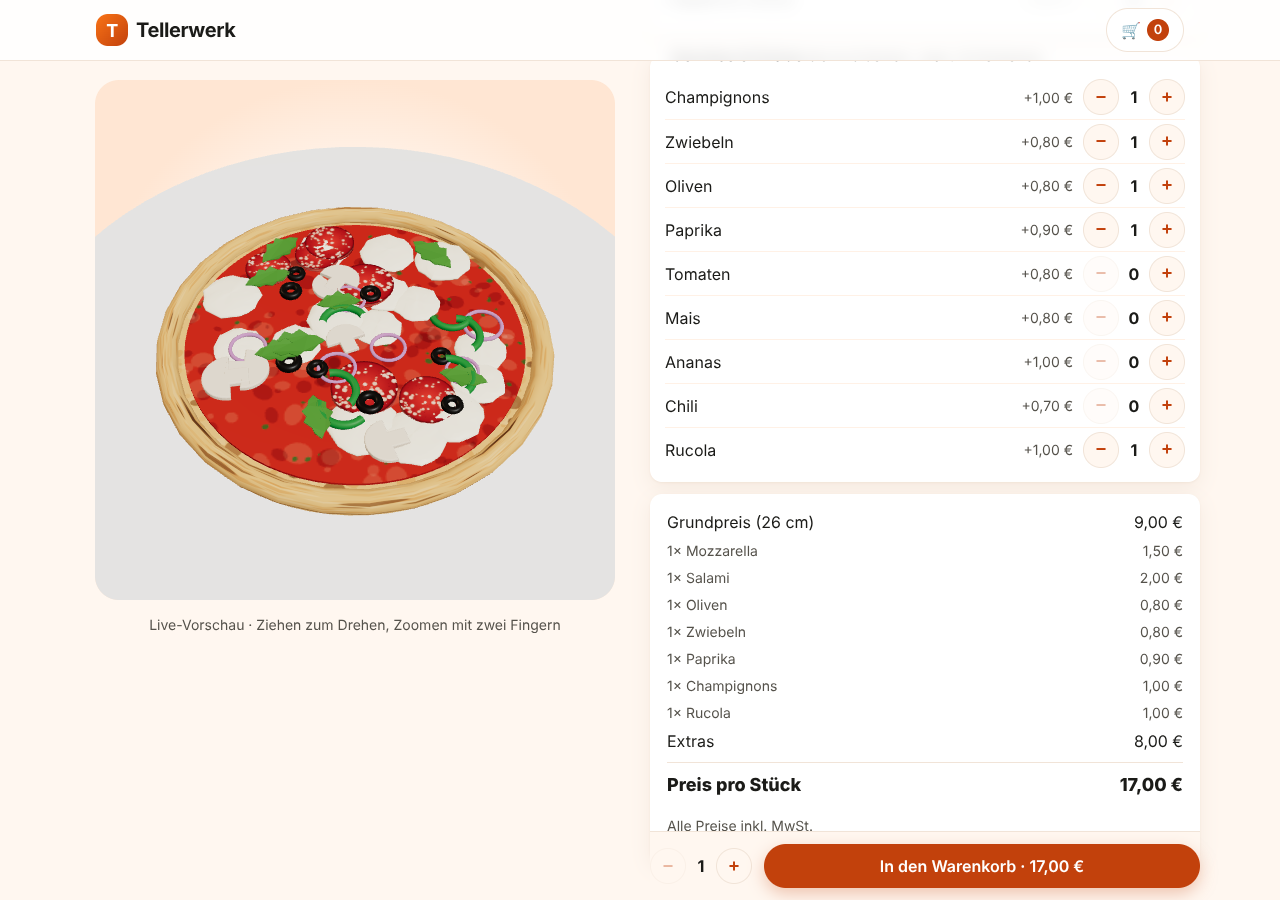
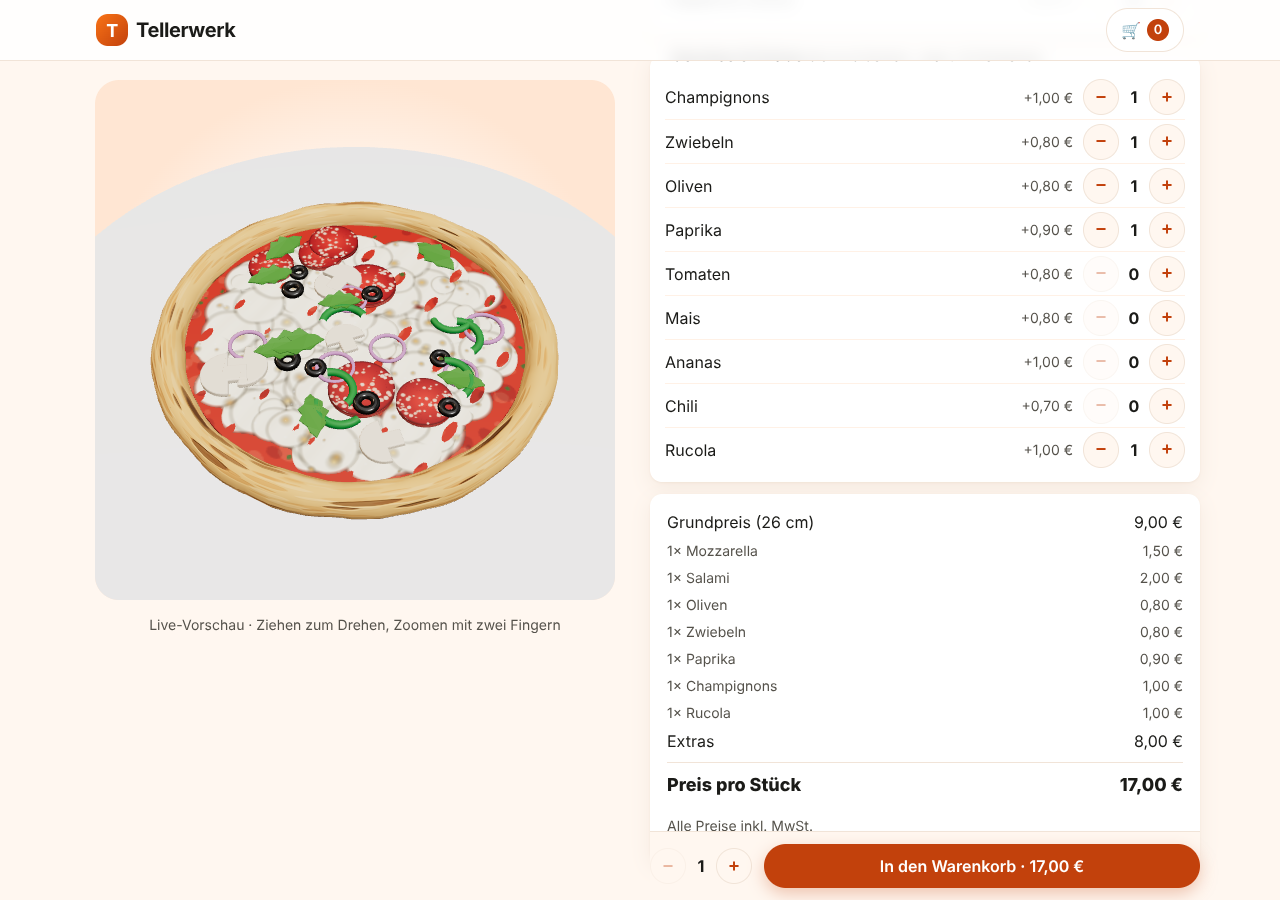
3D: studio lighting from local light panels, melted cheese layer, glossy materials, puffy crust
Claude-Session: https://claude.ai/code/session_01SjLAyZUfiSMKCvP1Eo84pU

Changed region(s): [[0.0938, 0.2178, 0.4375, 0.5911]]

diff --git a/marketplace/apps/web/src/components/dish3d/Pizza3D.tsx b/marketplace/apps/web/src/components/dish3d/Pizza3D.tsx
@@ -1,6 +1,6 @@
 "use client";
 
-import { Drop, G, textures, useRandomPoints } from "./parts";
+import { Drop, G, geo, textures, THREE, useRandomPoints } from "./parts";
 import type { DishLayer } from "./Dish3D";
 
 const SAUCE: Record<string, string> = { tomatensosse: "#b8321b", "bbq-sosse": "#5e2410", "creme-fraiche": "#f2ead8" };
@@ -27,19 +27,19 @@ function Piece({ k }: { k: string }) {
     case "mozzarella": return <mesh geometry={G.blob()} castShadow><meshStandardMaterial color="#fbf3dc" roughness={0.45} /></mesh>;
     case "cheddar": return <mesh geometry={G.blob()} castShadow><meshStandardMaterial color="#f0a330" roughness={0.45} /></mesh>;
     case "parmesan": return <mesh geometry={G.box(0.05, 0.008, 0.03)}><meshStandardMaterial color="#f4e9c1" roughness={0.8} /></mesh>;
-    case "salami": return <mesh geometry={G.disc(0.115, 0.018, 32)} castShadow><meshStandardMaterial map={textures.salami()} roughness={0.55} /></mesh>;
-    case "pepperoni-wurst": return <mesh geometry={G.disc(0.075, 0.016, 28)} castShadow><meshStandardMaterial map={textures.salami()} roughness={0.5} /></mesh>;
+    case "salami": return <mesh geometry={G.disc(0.115, 0.018, 32)} castShadow><meshPhysicalMaterial map={textures.salami()} roughness={0.45} clearcoat={0.5} clearcoatRoughness={0.3} /></mesh>;
+    case "pepperoni-wurst": return <mesh geometry={G.disc(0.075, 0.016, 28)} castShadow><meshPhysicalMaterial map={textures.salami()} roughness={0.45} clearcoat={0.5} clearcoatRoughness={0.3} /></mesh>;
     case "schinken": return <mesh geometry={G.box(0.17, 0.012, 0.11)} castShadow><meshStandardMaterial map={textures.ham()} roughness={0.6} /></mesh>;
     case "hahnchen": return <mesh geometry={G.chunk()} castShadow><meshStandardMaterial color="#e2b97f" roughness={0.75} /></mesh>;
     case "thunfisch": return <mesh geometry={G.chunk()} scale={[0.8, 0.6, 0.8]} castShadow><meshStandardMaterial color="#c4a07f" roughness={0.85} /></mesh>;
     case "champignons": return <mesh geometry={G.mushroom()} castShadow><meshStandardMaterial color="#e6dac7" roughness={0.7} /></mesh>;
     case "zwiebeln": return <mesh geometry={G.ring(0.075, 0.008)} castShadow><meshStandardMaterial color="#b98ab8" roughness={0.4} /></mesh>;
-    case "oliven": return <mesh geometry={G.ring(0.032, 0.016)} castShadow><meshStandardMaterial color="#1c1a17" roughness={0.25} /></mesh>;
+    case "oliven": return <mesh geometry={G.ring(0.032, 0.016)} castShadow><meshPhysicalMaterial color="#1c1a17" roughness={0.2} clearcoat={1} /></mesh>;
     case "paprika": return <mesh geometry={G.ring(0.09, 0.016, Math.PI * 0.8)} castShadow><meshStandardMaterial color="#2f8a3a" roughness={0.35} /></mesh>;
     case "tomaten":
       return (
         <group>
-          <mesh geometry={G.disc(0.1, 0.02, 28)} castShadow><meshStandardMaterial color="#d23a22" roughness={0.35} /></mesh>
+          <mesh geometry={G.disc(0.1, 0.02, 28)} castShadow><meshPhysicalMaterial color="#d23a22" roughness={0.3} clearcoat={0.8} /></mesh>
           <mesh geometry={G.disc(0.07, 0.022, 28)}><meshStandardMaterial color="#ef7658" roughness={0.3} /></mesh>
         </group>
       );
@@ -49,6 +49,31 @@ function Piece({ k }: { k: string }) {
     case "rucola": return <mesh geometry={G.leaf()} castShadow><meshStandardMaterial color="#4f8c34" roughness={0.6} side={2} /></mesh>;
     default: return <mesh geometry={G.chunk()}><meshStandardMaterial color="#8a7a62" /></mesh>;
   }
+}
+
+function cheeseGeo(R: number) {
+  return geo(`cheeseLayer-${R}`, () => {
+    const g = new THREE.PlaneGeometry(R * 2, R * 2, 96, 96);
+    g.rotateX(-Math.PI / 2);
+    const p = g.attributes.position as THREE.BufferAttribute;
+    for (let i = 0; i < p.count; i++) {
+      const x = p.getX(i), z = p.getZ(i);
+      p.setY(i, Math.sin(x * 23) * Math.cos(z * 19) * 0.004 + Math.sin(x * 51 + z * 37) * 0.002);
+    }
+    g.computeVertexNormals();
+    return g;
+  });
+}
+
+function CheeseLayer({ k, q, R, y }: { k: string; q: number; R: number; y: number }) {
+  const map = k === "cheddar" ? textures.cheddar(q) : textures.mozzarella(q);
+  return (
+    <Drop height={0.3}>
+      <mesh position={[0, y, 0]} geometry={cheeseGeo(R * 0.9)} receiveShadow castShadow>
+        <meshPhysicalMaterial map={map} transparent alphaTest={0.35} roughness={0.5} clearcoat={0.15} clearcoatRoughness={0.5} bumpMap={map} bumpScale={1.2} side={2} />
+      </mesh>
+    </Drop>
+  );
 }
 
 const BASE_KEYS = new Set(["klassischer-teig", "vollkornteig", ...Object.keys(SAUCE)]);
@@ -67,13 +92,15 @@ export function Pizza3D({ layers, scale }: { layers: DishLayer[]; scale: number 
       <mesh position={[0, -0.04, 0]} receiveShadow geometry={G.disc(1.45, 0.05, 72)}><meshStandardMaterial color="#ffffff" roughness={0.25} /></mesh>
       {/* dough + raised rim (cornicione) */}
       <mesh position={[0, 0.0, 0]} receiveShadow castShadow geometry={G.disc(R, 0.05, 72)}><meshStandardMaterial map={crust} roughness={0.8} /></mesh>
-      <mesh position={[0, 0.035, 0]} castShadow geometry={G.ring(R * 0.97, 0.055 * Math.max(0.8, scale))}><meshStandardMaterial map={crust} roughness={0.75} /></mesh>
+      <mesh position={[0, 0.035, 0]} castShadow geometry={G.crustRim(R)}><meshStandardMaterial map={crust} roughness={0.72} bumpMap={crust} bumpScale={2} /></mesh>
       {sauce && (
         <Drop key={sauce} height={0.25}>
-          <mesh position={[0, 0.03, 0]} receiveShadow geometry={G.disc(R * 0.88, 0.012, 72)}><meshStandardMaterial map={textures.sauce(SAUCE[sauce]!)} roughness={0.45} /></mesh>
+          <mesh position={[0, 0.03, 0]} receiveShadow geometry={G.disc(R * 0.88, 0.012, 72)}><meshPhysicalMaterial map={textures.sauce(SAUCE[sauce]!)} roughness={0.42} clearcoat={0.3} clearcoatRoughness={0.45} /></mesh>
         </Drop>
       )}
-      {cheese.map((c) => <Toppings key={c.key} k={c.key} n={Math.round(c.quantity * (PER[c.key] ?? 8) * scale)} R={R} y={0.045} />)}
+      {cheese.map((c, i) =>
+        c.key === "parmesan" ? <Toppings key={c.key} k={c.key} n={Math.round(c.quantity * 18 * scale)} R={R} y={0.05} /> : <CheeseLayer key={`${c.key}-${c.quantity}`} k={c.key} q={c.quantity} R={R} y={0.04 + i * 0.003} />,
+      )}
       {tops.map((t, i) => <Toppings key={t.key} k={t.key} n={Math.round(t.quantity * (PER[t.key] ?? 7) * scale)} R={R} y={0.06 + i * 0.004} />)}
     </group>
   );

diff --git a/marketplace/apps/web/src/components/dish3d/Burger3D.tsx b/marketplace/apps/web/src/components/dish3d/Burger3D.tsx
@@ -41,7 +41,7 @@ export function Burger3D({ layers }: { layers: DishLayer[] }) {
     <group rotation={[0, i * 0.7, 0]}>
       {[0, 2.1, 4.2].map((a) => (
         <group key={a} position={[Math.cos(a) * 0.45, 0.035, Math.sin(a) * 0.45]}>
-          <mesh geometry={G.disc(0.42, 0.06, 36)} castShadow><meshStandardMaterial color="#d1351f" roughness={0.35} /></mesh>
+          <mesh geometry={G.disc(0.42, 0.06, 36)} castShadow><meshPhysicalMaterial color="#d1351f" roughness={0.3} clearcoat={0.8} /></mesh>
           <mesh position={[0, 0.002, 0]} geometry={G.disc(0.3, 0.062, 36)}><meshStandardMaterial color="#ee6b4d" roughness={0.3} /></mesh>
         </group>
       ))}
@@ -49,7 +49,7 @@ export function Burger3D({ layers }: { layers: DishLayer[] }) {
   ));
 
   const patties: { k: string; n: number; h: number; mat: ReactNode }[] = [
-    { k: "rindfleisch-patty", n: q("rindfleisch-patty"), h: 0.26, mat: <meshStandardMaterial map={textures.patty()} roughness={0.9} /> },
+    { k: "rindfleisch-patty", n: q("rindfleisch-patty"), h: 0.26, mat: <meshPhysicalMaterial map={textures.patty()} roughness={0.75} bumpMap={textures.patty()} bumpScale={3} clearcoat={0.15} /> },
     { k: "crispy-chicken", n: q("crispy-chicken"), h: 0.28, mat: <meshStandardMaterial map={textures.crispy()} roughness={0.85} /> },
     { k: "veggie-patty", n: q("veggie-patty"), h: 0.24, mat: <meshStandardMaterial color="#7a6a3a" roughness={0.85} /> },
   ];
@@ -64,11 +64,11 @@ export function Burger3D({ layers }: { layers: DishLayer[] }) {
       const slices = placed === totalPatties ? cheese : Math.min(1, cheese);
       for (let s = 0; s < slices; s++) {
         cheese--;
-        add(`cheddar-${placed}-${s}`, 0.018, <mesh geometry={G.cheese()} rotation={[0, s * 0.5, 0]} castShadow><meshStandardMaterial color="#f2a531" roughness={0.4} side={2} /></mesh>);
+        add(`cheddar-${placed}-${s}`, 0.018, <mesh geometry={G.cheese()} rotation={[0, s * 0.5, 0]} castShadow><meshPhysicalMaterial color="#f2a531" roughness={0.35} clearcoat={0.4} side={2} /></mesh>);
       }
     }
   }
-  for (let s = 0; s < cheese; s++) add(`cheddar-x-${s}`, 0.018, <mesh geometry={G.cheese()} castShadow><meshStandardMaterial color="#f2a531" roughness={0.4} side={2} /></mesh>);
+  for (let s = 0; s < cheese; s++) add(`cheddar-x-${s}`, 0.018, <mesh geometry={G.cheese()} castShadow><meshPhysicalMaterial color="#f2a531" roughness={0.35} clearcoat={0.4} side={2} /></mesh>);
 
   for (let i = 0; i < q("bacon"); i++) add(`bacon-${i}`, 0.08, (
     <group rotation={[0, i * 1.2, 0]}>
@@ -103,7 +103,7 @@ export function Burger3D({ layers }: { layers: DishLayer[] }) {
   add("bun-top", 0.7, (
     <group>
       <mesh geometry={G.bunCut()} scale={0.97}><meshStandardMaterial color="#e2b47a" roughness={0.9} /></mesh>
-      <mesh geometry={G.bunTop()} castShadow><meshStandardMaterial map={textures.bunTop()} color={whole ? "#c49466" : "#ffffff"} roughness={0.55} /></mesh>
+      <mesh geometry={G.bunTop()} castShadow><meshPhysicalMaterial map={textures.bunTop()} color={whole ? "#c49466" : "#ffffff"} roughness={0.45} clearcoat={0.45} clearcoatRoughness={0.35} /></mesh>
       <Sesame />
     </group>
   ));

diff --git a/marketplace/apps/web/src/components/dish3d/textures.ts b/marketplace/apps/web/src/components/dish3d/textures.ts
@@ -44,7 +44,40 @@ function speckle(ctx: CanvasRenderingContext2D, r: () => number, n: number, colo
   ctx.globalAlpha = 1;
 }
 
+/** Melted cheese layer with transparent gaps (sauce shows through), browned bubbles. */
+function cheeseLayer(base: string, browned: string[], coverage: number, seed: string) {
+  return make(`cheese-${base}-${coverage}-${seed}`, 1024, (ctx, r) => {
+    const C = 512, R = 470;
+    ctx.clearRect(0, 0, 1024, 1024);
+    const n = Math.round(60 + coverage * 140);
+    for (let i = 0; i < n; i++) {
+      const a = r() * Math.PI * 2, d = Math.sqrt(r()) * (R - 40);
+      const x = C + Math.cos(a) * d, y = C + Math.sin(a) * d;
+      const rad = 35 + r() * 70 * coverage;
+      const g = ctx.createRadialGradient(x, y, rad * 0.2, x, y, rad);
+      g.addColorStop(0, base); g.addColorStop(0.75, base); g.addColorStop(1, "rgba(0,0,0,0)");
+      ctx.fillStyle = g;
+      ctx.beginPath(); ctx.ellipse(x, y, rad, rad * (0.7 + r() * 0.5), r() * Math.PI, 0, Math.PI * 2); ctx.fill();
+    }
+    // browned / blistered spots only where cheese is
+    ctx.globalCompositeOperation = "source-atop";
+    for (let i = 0; i < 160; i++) {
+      const x = r() * 1024, y = r() * 1024, rad = 4 + r() * 22;
+      const g = ctx.createRadialGradient(x, y, 0, x, y, rad);
+      g.addColorStop(0, browned[Math.floor(r() * browned.length)]!); g.addColorStop(1, "rgba(0,0,0,0)");
+      ctx.fillStyle = g; ctx.beginPath(); ctx.arc(x, y, rad, 0, Math.PI * 2); ctx.fill();
+    }
+    for (let i = 0; i < 400; i++) { // glossy bubbles
+      ctx.fillStyle = "rgba(255,255,255,0.35)";
+      ctx.beginPath(); ctx.arc(r() * 1024, r() * 1024, 1 + r() * 3, 0, Math.PI * 2); ctx.fill();
+    }
+    ctx.globalCompositeOperation = "source-over";
+  });
+}
+
 export const textures = {
+  mozzarella: (q: number) => cheeseLayer("rgb(252,244,222)", ["rgba(214,150,64,0.85)", "rgba(190,120,45,0.7)", "rgba(236,190,110,0.8)"], Math.min(1, 0.55 + q * 0.2), "m"),
+  cheddar: (q: number) => cheeseLayer("rgb(242,166,52)", ["rgba(200,110,30,0.8)", "rgba(170,90,25,0.6)"], Math.min(1, 0.4 + q * 0.2), "c"),
   crust: (whole: boolean) =>
     make(`crust-${whole}`, 512, (ctx, r) => {
       ctx.fillStyle = whole ? "#b98552" : "#e2b06e";

diff --git a/marketplace/apps/web/src/components/dish3d/Dish3D.tsx b/marketplace/apps/web/src/components/dish3d/Dish3D.tsx
@@ -1,6 +1,6 @@
 "use client";
 
-import { ContactShadows, OrbitControls } from "@react-three/drei";
+import { ContactShadows, Environment, Lightformer, OrbitControls } from "@react-three/drei";
 import { Canvas } from "@react-three/fiber";
 import { useState } from "react";
 import { Burger3D, burgerHeight } from "./Burger3D";
@@ -17,9 +17,16 @@ export default function Dish3D({ kind, layers, scale }: { kind: "pizza" | "burge
 
   return (
     <Canvas shadows dpr={[1, 2]} camera={camera} gl={{ antialias: true, preserveDrawingBuffer: false }}>
-      <ambientLight intensity={0.55} />
-      <hemisphereLight args={["#fff8ef", "#b9a48f", 0.9]} />
-      <directionalLight position={[2.5, 5, 3]} intensity={2.2} castShadow shadow-mapSize={[1024, 1024]} shadow-bias={-0.0004} shadow-camera-left={-2} shadow-camera-right={2} shadow-camera-top={2} shadow-camera-bottom={-2} />
+      {/* Studio lighting baked locally from light panels (no HDRI download) for realistic reflections */}
+      <Environment resolution={256} frames={1} environmentIntensity={0.35}>
+        <Lightformer form="rect" intensity={2.5} position={[0, 5, 0]} rotation-x={Math.PI / 2} scale={[8, 8, 1]} />
+        <Lightformer form="rect" intensity={1.6} color="#ffd8b0" position={[-5, 2, 1]} rotation-y={Math.PI / 2} scale={[4, 3, 1]} />
+        <Lightformer form="rect" intensity={1.1} position={[5, 1.5, -1]} rotation-y={-Math.PI / 2} scale={[4, 3, 1]} />
+        <Lightformer form="ring" intensity={1.5} position={[0, 2, 6]} scale={3} />
+      </Environment>
+      <ambientLight intensity={0.2} />
+      <hemisphereLight args={["#fff8ef", "#b9a48f", 0.55]} />
+      <directionalLight position={[2.5, 5, 3]} intensity={2.0} castShadow shadow-mapSize={[1024, 1024]} shadow-bias={-0.0004} shadow-camera-left={-2} shadow-camera-right={2} shadow-camera-top={2} shadow-camera-bottom={-2} />
       <directionalLight position={[-3, 2, -2]} intensity={0.6} color="#ffd9b0" />
       {kind === "pizza" ? <Pizza3D layers={layers} scale={scale} /> : <Burger3D layers={layers} />}
       <ContactShadows position={[0, -0.06, 0]} opacity={0.45} scale={6} blur={2.6} far={3} />

diff --git a/marketplace/apps/web/src/components/dish3d/parts.tsx b/marketplace/apps/web/src/components/dish3d/parts.tsx
@@ -84,6 +84,17 @@ export const G = {
   chunk: () => geo("chunk", () => displace(new THREE.DodecahedronGeometry(0.055, 1), (v) => { v.y *= 0.45; v.multiplyScalar(1 + noise(v.x * 20, v.y * 20, v.z * 20) * 0.15); })),
   box: (x: number, y: number, z: number) => geo(`box-${x}-${y}-${z}`, () => new THREE.BoxGeometry(x, y, z, 2, 1, 2)),
   corn: () => geo("corn", () => { const g = new THREE.SphereGeometry(0.022, 10, 8); g.scale(1, 0.7, 0.85); return g; }),
+  crustRim: (R: number) => geo(`crustRim-${R}`, () => {
+    const g = new THREE.TorusGeometry(R * 0.96, 0.065, 24, 160);
+    g.rotateX(Math.PI / 2);
+    return displace(g, (v) => {
+      const a = Math.atan2(v.z, v.x);
+      const puff = 1 + Math.sin(a * 7) * 0.05 + Math.sin(a * 17 + 1) * 0.04 + noise(v.x * 6, v.y * 6, v.z * 6) * 0.04;
+      const r = Math.hypot(v.x, v.z), c = R * 0.96;
+      const dx = (r - c) * puff, dy = v.y * puff * 1.1;
+      v.x = Math.cos(a) * (c + dx); v.z = Math.sin(a) * (c + dx); v.y = Math.max(dy, -0.04);
+    });
+  }),
   // burger
   bunBottom: () => geo("bunBottom", () => new THREE.LatheGeometry([0, 0.95, 1.04, 1.08, 1.06, 1.0, 0].map((x, i) => new THREE.Vector2(x, [0, 0, 0.05, 0.14, 0.24, 0.3, 0.31][i]!)), 64)),
   bunTop: () => geo("bunTop", () => { const g = new THREE.SphereGeometry(1.1, 64, 32, 0, Math.PI * 2, 0, Math.PI / 2); g.scale(1, 0.62, 1); return g; }),
